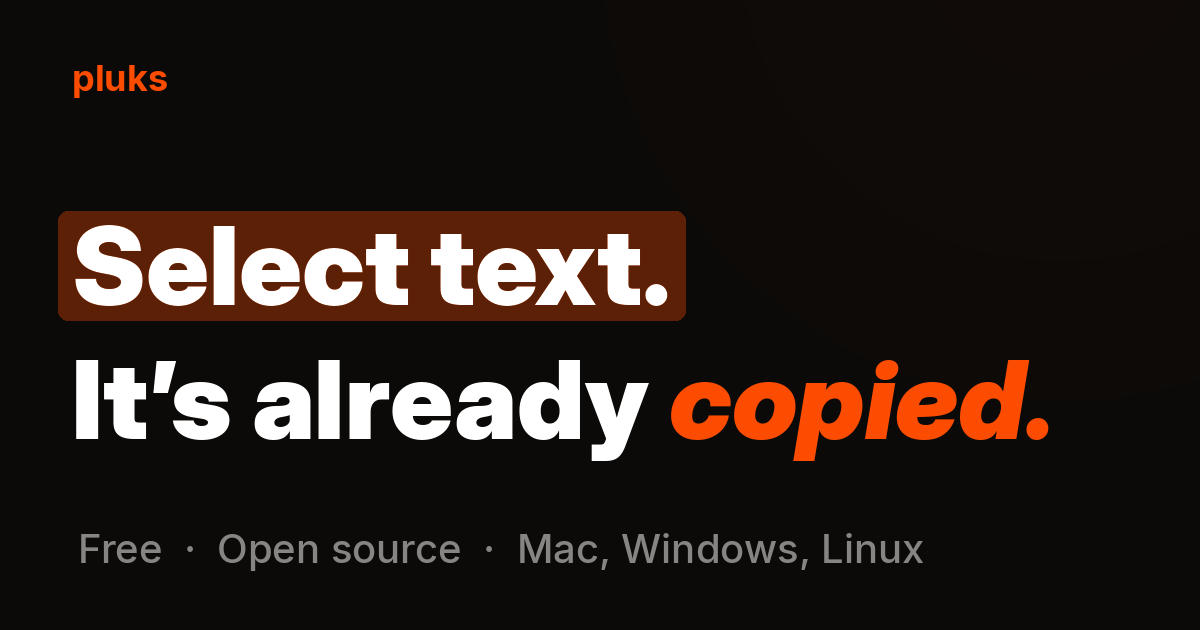
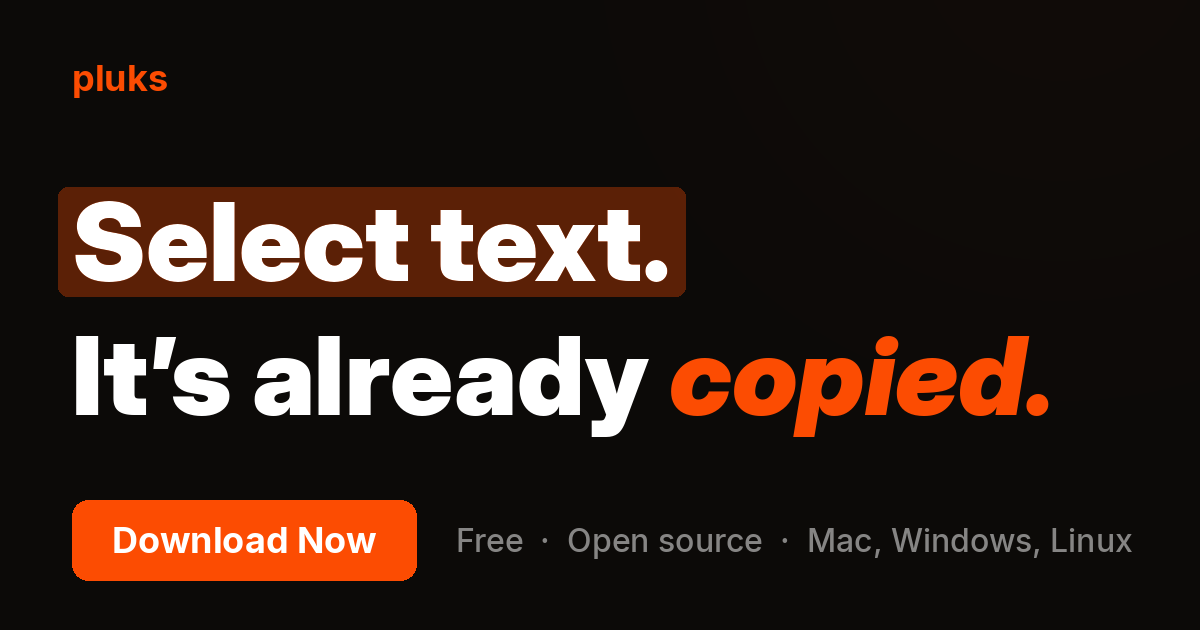
Add 'Download Now' CTA button to social card
Regenerated og-card.png with an accent CTA button next to the fact
line, and bumped the og:image URLs to ?v=2 so scrapers that cached
the previous card re-fetch it.

https://claude.ai/code/session_0169YyXiKnWbfKvCdeNKax5B

Changed region(s): [[0.0308, 0.2714, 0.8942, 0.754], [0.0617, 0.7841, 0.9558, 0.9349]]

diff --git a/website/index.html b/website/index.html
@@ -13,14 +13,14 @@
   <meta property="og:title" content="Pluks — Select text. It's already copied.">
   <meta property="og:description" content="Pluks auto-copies any text you select — no Ctrl+C needed. Free, open source, for Mac, Windows, and Linux.">
   <meta property="og:url" content="https://pluks.app/">
-  <meta property="og:image" content="https://pluks.app/og-card.png">
+  <meta property="og:image" content="https://pluks.app/og-card.png?v=2">
   <meta property="og:image:width" content="1200">
   <meta property="og:image:height" content="630">
   <meta property="og:image:alt" content="Select text. It's already copied. Free · Open source · Mac, Windows, Linux">
   <meta name="twitter:card" content="summary_large_image">
   <meta name="twitter:title" content="Pluks — Select text. It's already copied.">
   <meta name="twitter:description" content="Pluks auto-copies any text you select — no Ctrl+C needed. Free, open source, for Mac, Windows, and Linux.">
-  <meta name="twitter:image" content="https://pluks.app/og-card.png">
+  <meta name="twitter:image" content="https://pluks.app/og-card.png?v=2">
 
   <link rel="preconnect" href="https://fonts.googleapis.com">
   <link href="https://fonts.googleapis.com/css2?family=Inter:wght@400;500;600;700;900&family=JetBrains+Mono:wght@400;700&display=swap" rel="stylesheet">

diff --git a/website/privacy.html b/website/privacy.html
@@ -13,14 +13,14 @@
   <meta property="og:title" content="Privacy Policy — Pluks">
   <meta property="og:description" content="Pluks privacy policy — all data stays on your device.">
   <meta property="og:url" content="https://pluks.app/privacy.html">
-  <meta property="og:image" content="https://pluks.app/og-card.png">
+  <meta property="og:image" content="https://pluks.app/og-card.png?v=2">
   <meta property="og:image:width" content="1200">
   <meta property="og:image:height" content="630">
   <meta property="og:image:alt" content="Select text. It's already copied. Free · Open source · Mac, Windows, Linux">
   <meta name="twitter:card" content="summary_large_image">
   <meta name="twitter:title" content="Privacy Policy — Pluks">
   <meta name="twitter:description" content="Pluks privacy policy — all data stays on your device.">
-  <meta name="twitter:image" content="https://pluks.app/og-card.png">
+  <meta name="twitter:image" content="https://pluks.app/og-card.png?v=2">
 
   <link rel="preconnect" href="https://fonts.googleapis.com">
   <link href="https://fonts.googleapis.com/css2?family=Inter:wght@400;500;600;700&display=swap" rel="stylesheet">